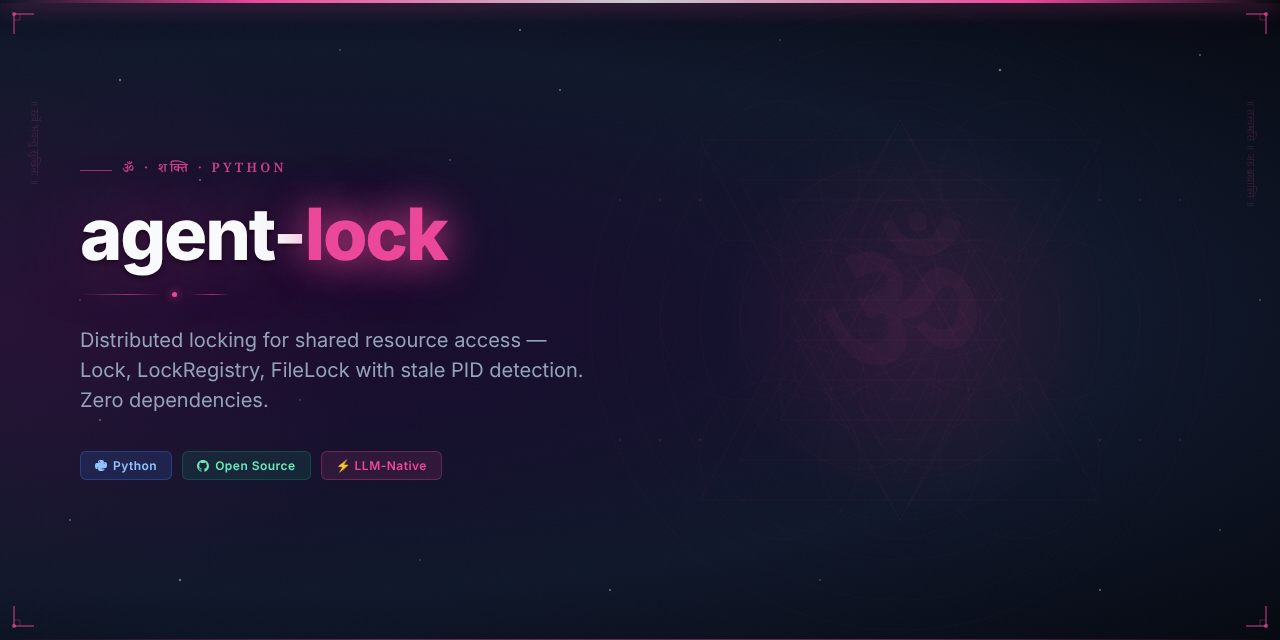
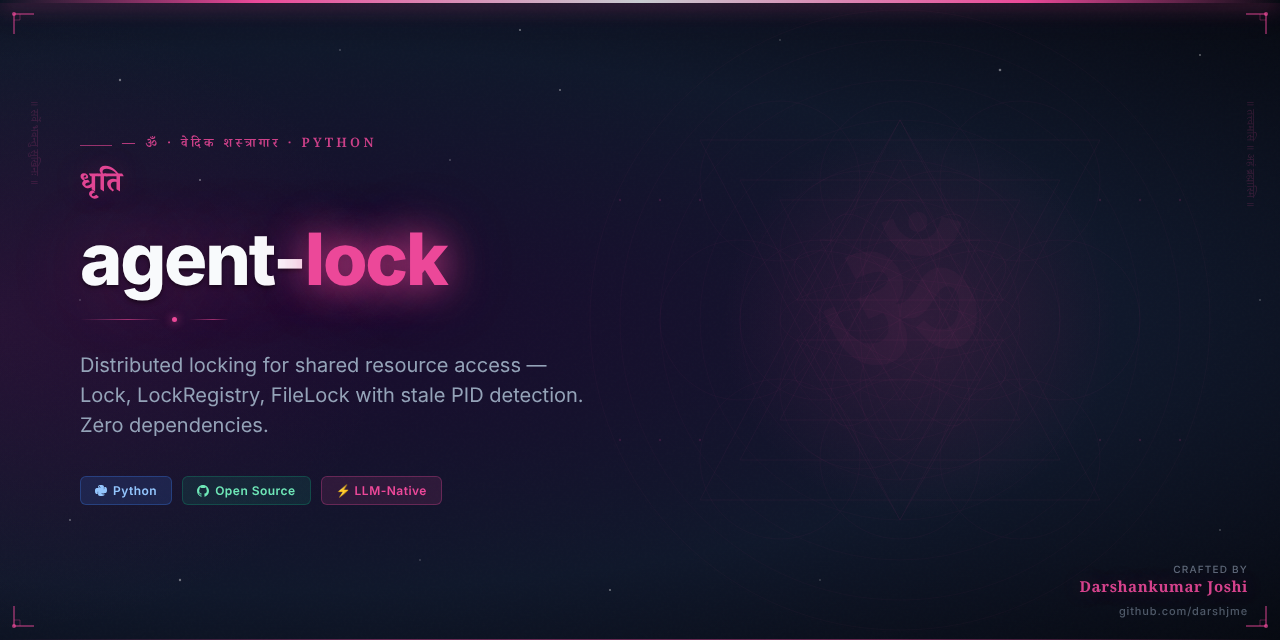
feat: add Vedic Arsenal hero image and updated README
Part of darshjme/arsenal — 100 production-grade Python libraries for LLM agents.
Vedic branding: ancient philosophy meets modern AI engineering.

diff --git a/README.md b/README.md
@@ -1,10 +1,12 @@
 <div align="center">
 
-<img src="assets/agent-lock-hero.png" alt="agent-lock — Vedic Arsenal" width="100%" />
+<img src="assets/agent-lock-hero.png" alt="agent-lock — Vedic Arsenal by Darshankumar Joshi" width="100%" />
 
 # 🪷 agent-lock
 
-### *धृति* — Dhriti — steadfast holding, the virtue of locking
+<h3><em>धृति</em></h3>
+
+> *Dhriti — steadfast holding, the virtue of locking*
 
 **Distributed locking for shared resource access — Lock, LockRegistry, FileLock with stale PID detection. Zero dependencies.**
 
@@ -39,6 +41,19 @@ Or clone directly:
 git clone https://github.com/darshjme/agent-lock.git
 cd agent-lock
 pip install -e .
+```
+
+## How It Works
+
+```mermaid
+flowchart LR
+    A[Input] --> B[agent-lock]
+    B --> C{Process}
+    C -- Success --> D[Output]
+    C -- Error --> E[Handle / Retry]
+    E --> B
+    style B fill:#6b21a8,color:#fff
+    note["Lock — Zero Dependencies"]
 ```
 
 ## Quick Start
@@ -90,7 +105,7 @@ MIT — use freely, build freely.
 
 <div align="center">
 
-**Built with 🪷 by [Darshankumar Joshi](https://github.com/darshjme)**
+**Built with 🪷 by [Darshankumar Joshi](https://github.com/darshjme)** · [@thedarshanjoshi](https://twitter.com/thedarshanjoshi)
 
 *"कर्मण्येवाधिकारस्ते मा फलेषु कदाचन"*
 *Your right is to action alone, never to the fruits thereof.*
